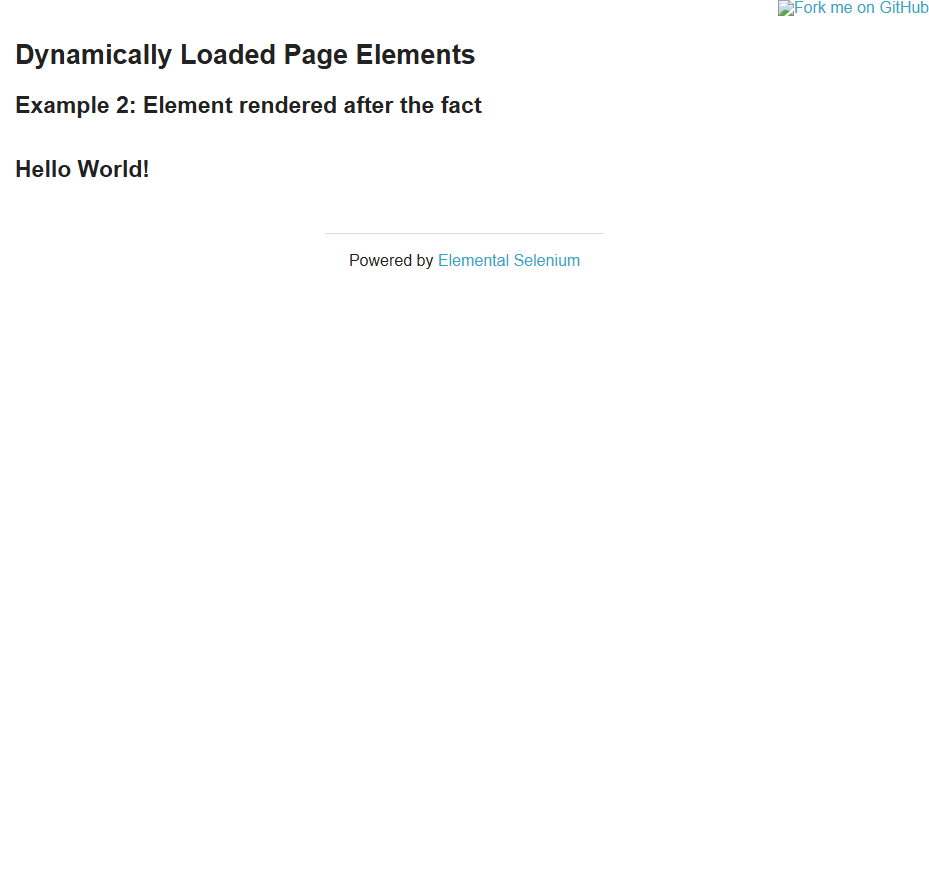
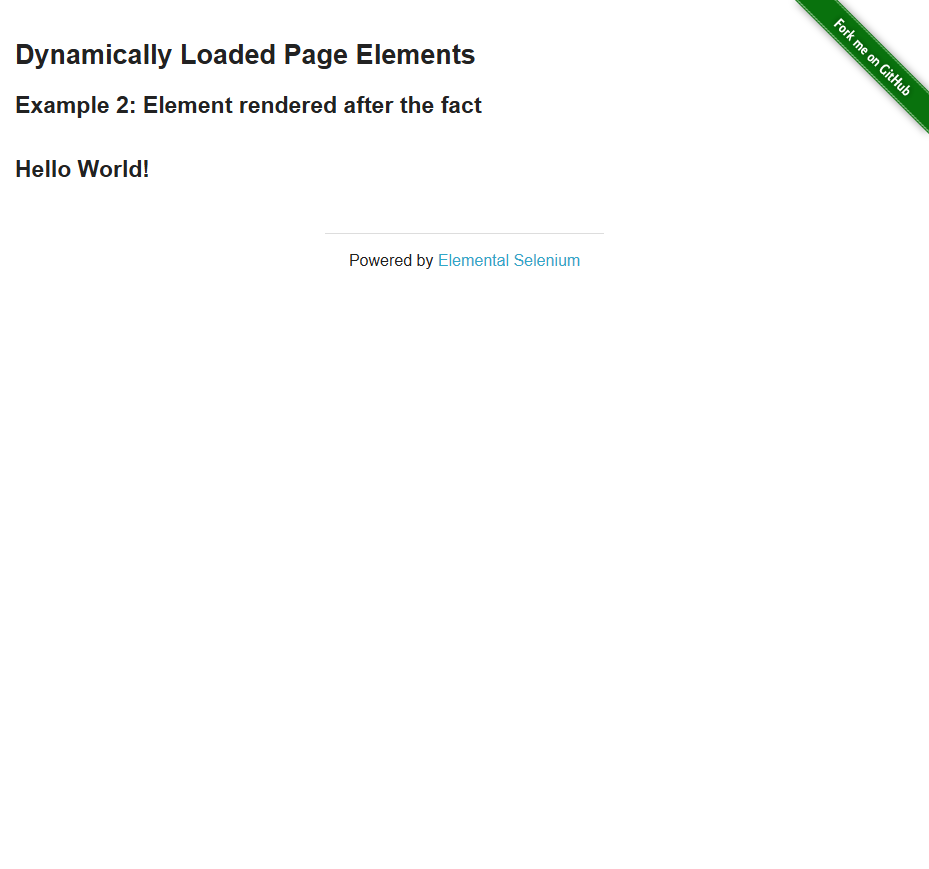
Урок_6

Changed region(s): [[0.8428, 0.0, 1.0, 0.1554]]

diff --git a/lesson_06/test_lesson06_task2.py b/lesson_06/test_lesson06_task2.py
@@ -1,0 +1,88 @@
+from selenium import webdriver
+from selenium.webdriver.common.by import By
+from selenium.webdriver.support.ui import WebDriverWait
+from selenium.webdriver.support import expected_conditions as EC
+
+
+def test_session_storage_auth():
+    USER_1_LOGIN = "451ruling@uberip.com"
+    USER_1_PASSWORD = "RLm3z!CDy-8XfvF"
+
+    USER_2_LOGIN = "e2ee75f2a820@uberip.com"
+    USER_2_PASSWORD = "j.-5U!5Kr3uy5AE"
+
+    driver = webdriver.Chrome()
+    driver.maximize_window()
+    wait = WebDriverWait(driver, 15)
+
+    # Авторизуемся под Пользователем 1
+    driver.get("https://gitflic.ru/auth/login")
+    wait.until(EC.presence_of_element_located(
+        (By.XPATH, "//input[@placeholder='Почта']")
+        )).send_keys(USER_1_LOGIN)
+    driver.find_element(
+        By.XPATH, "//input[@placeholder='Пароль']").send_keys(USER_1_PASSWORD)
+    wait.until(EC.element_to_be_clickable(
+        (By.XPATH, "//*[text()='Войти' or @value='Войти']")
+        )).click()
+
+    wait.until(EC.url_changes("https://gitflic.ru/auth/login"))
+    cookies_user1 = driver.get_cookies()
+    driver.delete_all_cookies()
+
+    # Авторизуемся под Пользователем 2
+    driver.get("https://gitflic.ru/auth/login")
+    wait.until(EC.presence_of_element_located(
+        (By.XPATH, "//input[@placeholder='Почта']")
+        )).send_keys(USER_2_LOGIN)
+    driver.find_element(
+        By.XPATH, "//input[@placeholder='Пароль']").send_keys(USER_2_PASSWORD)
+    wait.until(EC.element_to_be_clickable(
+        (By.XPATH, "//*[text()='Войти' or @value='Войти']")
+        )).click()
+
+    wait.until(EC.url_changes("https://gitflic.ru/auth/login"))
+    cookies_user2 = driver.get_cookies()
+    driver.delete_all_cookies()
+
+    # 1. Откройте страницу https://gitflic.ru/
+    driver.get("https://gitflic.ru/auth/login")
+
+    # 2. Установите cookie пользователя 1
+    for cookie in cookies_user1:
+        driver.add_cookie(cookie)
+
+    # 3. Обновите страницу
+    driver.refresh()
+
+    # 4. Перейдите на страницу пользователя 1
+    driver.get("https://gitflic.ru/user/451ruling")
+
+    # 5. Сохраните текущий URL
+    url_user1 = driver.current_url
+
+    # 6. Разлогиньтесь (очистите куки)
+    driver.delete_all_cookies()
+
+    # 7. Установите cookie пользователя 2
+    driver.get("https://gitflic.ru/auth/login")
+    for cookie in cookies_user2:
+        driver.add_cookie(cookie)
+
+    # 8. Обновите страницу
+    driver.refresh()
+
+    # 9. Перейдите на страницу пользователя 2
+    driver.get("https://gitflic.ru/user/e2ee75f2a820")
+
+    # 10. Сохраните текущий URL
+    url_user2 = driver.current_url
+
+    # 11. Проверьте, что URL для пользователя 1 и пользователя 2 различаются
+    assert url_user1 != url_user2, \
+        f"ОШИБКА: URL пользователей одинаковые! ({url_user1})"
+
+    print(f"\nURL Пользователя 1: {url_user1}")
+    print(f"URL Пользователя 2: {url_user2}")
+
+    driver.quit()

diff --git a/lesson_06/test_lesson06_task1.py b/lesson_06/test_lesson06_task1.py
@@ -1,0 +1,34 @@
+from selenium import webdriver
+from selenium.webdriver.common.by import By
+from selenium.webdriver.support.ui import WebDriverWait
+from selenium.webdriver.support import expected_conditions as EC
+
+
+def test_dynamic_loading():
+    driver = webdriver.Chrome()
+
+    # 1. Откройте страницу https://the-internet.herokuapp.com/dynamic_loading/2
+    driver.get("https://the-internet.herokuapp.com/dynamic_loading/2")
+    driver.delete_all_cookies()
+    driver.refresh()
+
+    # 2. Найдите и нажмите на кнопку "Start"
+    wait = WebDriverWait(driver, 15)
+    start_btn = wait.until(EC.element_to_be_clickable(
+        (By.CSS_SELECTOR, "#start button")))
+    start_btn.click()
+
+    # 3. Дождитесь появления текста "Hello World!"
+    wait.until(
+        EC.text_to_be_present_in_element((By.ID, "finish"), "Hello World!")
+    )
+
+    # 4. Сделайте скриншот страницы
+    driver.save_screenshot("task1_page.png")
+
+    # 5. Проверьте, что появившийся текст равен "Hello World!"
+    hello_element = driver.find_element(By.ID, "finish")
+    assert hello_element.text == "Hello World!", \
+        f"Текст не совпадает: {hello_element.text}"
+
+    driver.quit()
